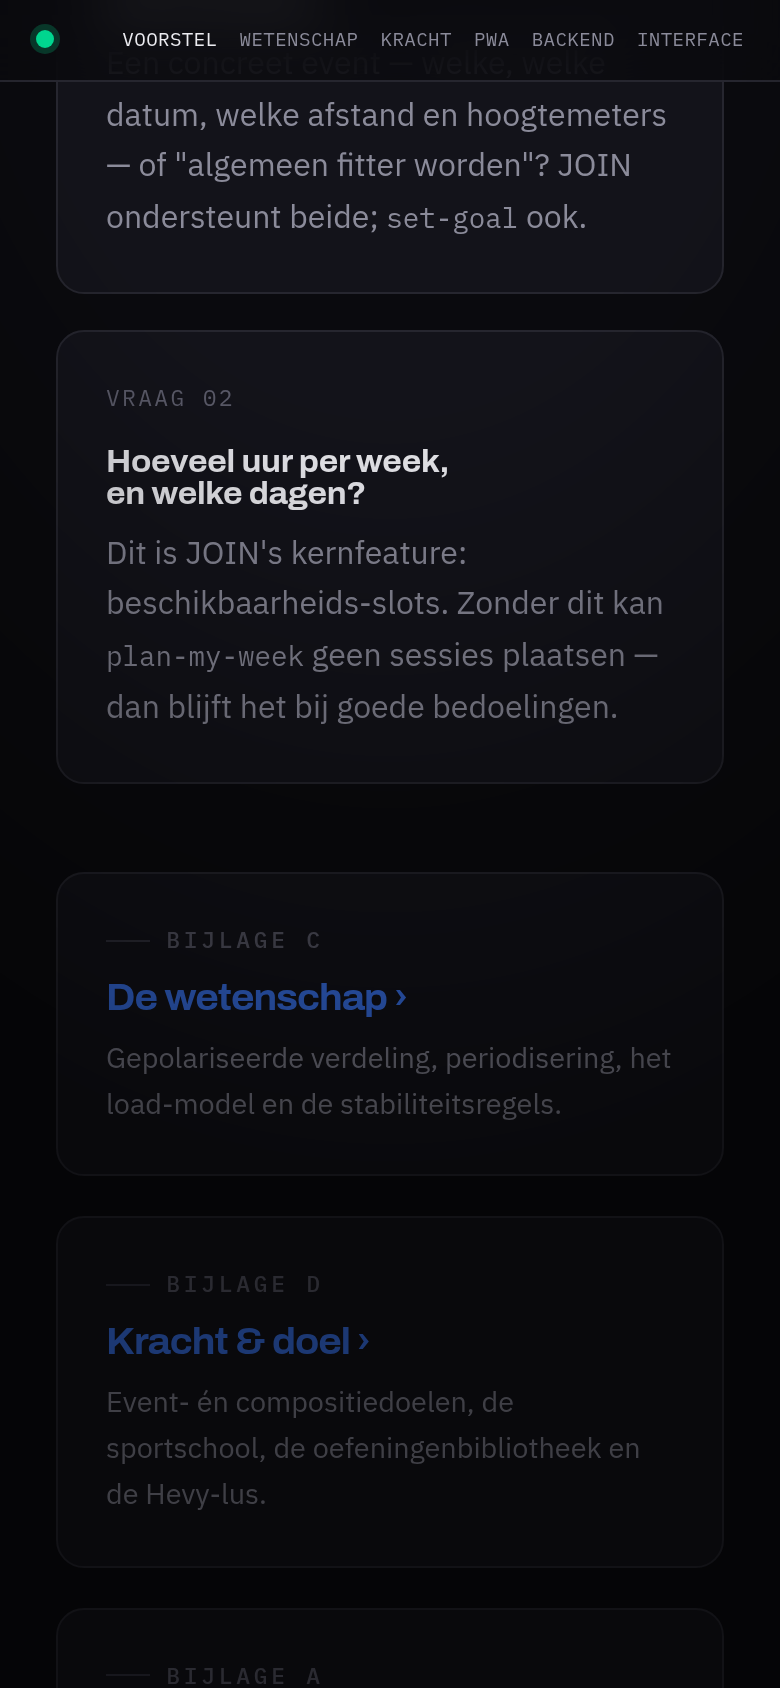
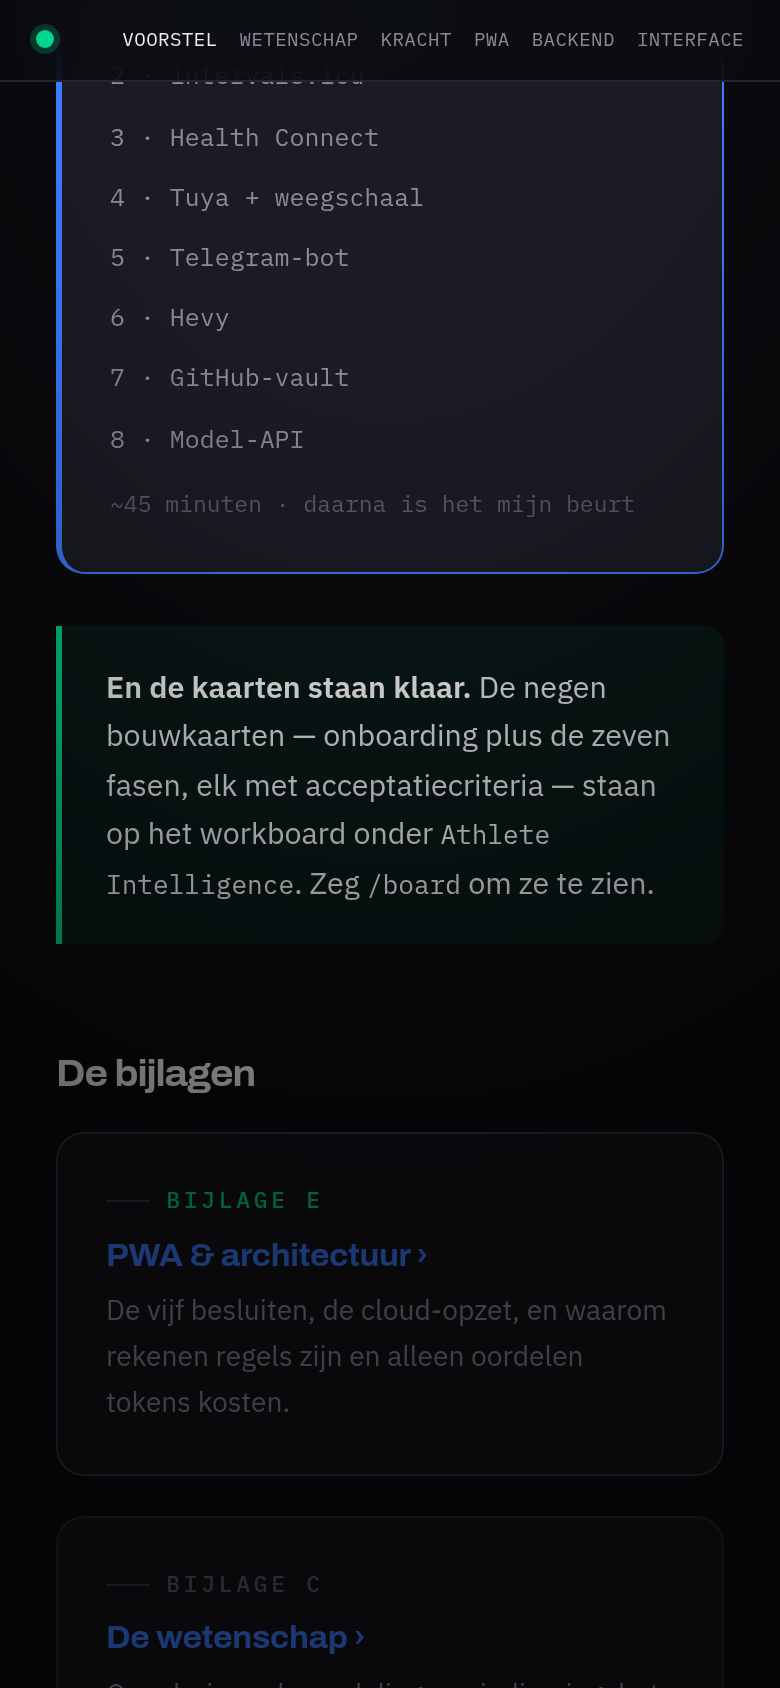
pitch deck: besluiten staan, onboarding-deck als volgende stap
- sectie 12 is nu 'De volgende stap' in plaats van open vragen
- prominente kaart naar de live onboarding-deck op Cloudflare
- de acht stappen met status (1 klaar, 7 te doen)
- vermelding van de negen workboard-kaarten onder Athlete Intelligence
- bijlagen uitgebreid met Bijlage E (PWA & architectuur)
- rail-label bijgewerkt

diff --git a/index.html b/index.html
@@ -715,59 +715,91 @@
   </div>
 </section>
 
-<!-- ============ BESLISPUNTEN ============ -->
+<!-- ============ VOLGENDE STAP ============ -->
 <section class="band" id="beslispunten">
-  <div class="wrap-narrow">
-    <p class="eyebrow accent">12 · Wat ik van je nodig heb</p>
-    <h2>Twee antwoorden,<br>dan kan ik beginnen.</h2>
+  <div class="wrap">
+    <p class="eyebrow accent">12 · De volgende stap</p>
+    <h2>De besluiten staan.<br>Nu de acht stappen.</h2>
+    <p style="max-width:64ch;color:var(--muted);margin-top:20px;font-size:1.04rem">
+      De vijf besluiten zijn genomen — cloud-PWA, D1, Telegram blijft, geen Hevy Pro, en
+      rekenen als regels. Wat overblijft zijn acht dingen die jouw handen nodig hebben:
+      een login, een QR-scan, een account.
+    </p>
 
-    <div class="grid" style="gap:18px;margin-top:40px">
-      <div class="card">
-        <span class="card-num">VRAAG 01</span>
-        <h4>Wat is je doel?</h4>
-        <p style="color:var(--muted);margin-top:8px">
-          Een concreet event — welke, welke datum, welke afstand en hoogtemeters — of
-          "algemeen fitter worden"? JOIN ondersteunt beide; <span class="mono">set-goal</span> ook.
-        </p>
+    <a class="card raised" href="https://athlete-onboarding.aq-bd6.workers.dev"
+       style="display:block;margin-top:36px;border-color:var(--fitness);border-left-width:3px">
+      <div class="grid g2" style="gap:26px;align-items:center">
+        <div>
+          <p class="eyebrow" style="margin-bottom:10px;color:var(--fitness)">Onboarding · live</p>
+          <h3>Acht dingen die jouw handen nodig hebben ›</h3>
+          <p style="color:var(--muted);margin-top:10px;font-size:0.94rem">
+            Per stap: wat je doet, waarom het nodig is, hoe je weet dat het gelukt is, en
+            wat je aan mij doorgeeft. Plus de valkuilen die iedereen overkomt.
+          </p>
+        </div>
+        <div>
+          <div class="grid g2" style="gap:10px">
+            <span class="mono" style="font-size:0.78rem;color:var(--form)">1 · Cloudflare — klaar</span>
+            <span class="mono" style="font-size:0.78rem;color:var(--muted)">2 · intervals.icu</span>
+            <span class="mono" style="font-size:0.78rem;color:var(--muted)">3 · Health Connect</span>
+            <span class="mono" style="font-size:0.78rem;color:var(--muted)">4 · Tuya + weegschaal</span>
+            <span class="mono" style="font-size:0.78rem;color:var(--muted)">5 · Telegram-bot</span>
+            <span class="mono" style="font-size:0.78rem;color:var(--muted)">6 · Hevy</span>
+            <span class="mono" style="font-size:0.78rem;color:var(--muted)">7 · GitHub-vault</span>
+            <span class="mono" style="font-size:0.78rem;color:var(--muted)">8 · Model-API</span>
+          </div>
+          <p class="mono" style="font-size:0.72rem;color:var(--dim);margin-top:14px">
+            ~45 minuten · daarna is het mijn beurt
+          </p>
+        </div>
       </div>
-      <div class="card">
-        <span class="card-num">VRAAG 02</span>
-        <h4>Hoeveel uur per week, en welke dagen?</h4>
-        <p style="color:var(--muted);margin-top:8px">
-          Dit is JOIN's kernfeature: beschikbaarheids-slots. Zonder dit kan
-          <span class="mono">plan-my-week</span> geen sessies plaatsen — dan blijft het bij goede
-          bedoelingen.
-        </p>
-      </div>
+    </a>
+
+    <div class="callout form" style="margin-top:26px">
+      <strong>En de kaarten staan klaar.</strong> De negen bouwkaarten — onboarding plus de
+      zeven fasen, elk met acceptatiecriteria — staan op het workboard onder
+      <span class="mono">Athlete Intelligence</span>. Zeg <span class="mono">/board</span>
+      om ze te zien.
     </div>
 
-    <div class="grid g4" style="margin-top:44px">
+    <h3 style="margin-top:56px;margin-bottom:20px">De bijlagen</h3>
+    <div class="grid g3" style="gap:20px">
+      <a class="card" href="pwa.html" style="display:block;border-color:var(--line-2)">
+        <p class="eyebrow" style="margin-bottom:10px;color:var(--form)">Bijlage E</p>
+        <h4>PWA &amp; architectuur ›</h4>
+        <p style="color:var(--muted);margin-top:8px;font-size:0.88rem">
+          De vijf besluiten, de cloud-opzet, en waarom rekenen regels zijn en alleen
+          oordelen tokens kosten.
+        </p>
+      </a>
       <a class="card" href="science.html" style="display:block">
         <p class="eyebrow" style="margin-bottom:10px">Bijlage C</p>
-        <h3>De wetenschap ›</h3>
-        <p style="color:var(--muted);margin-top:8px;font-size:0.9rem">
+        <h4>De wetenschap ›</h4>
+        <p style="color:var(--muted);margin-top:8px;font-size:0.88rem">
           Gepolariseerde verdeling, periodisering, het load-model en de stabiliteitsregels.
         </p>
       </a>
       <a class="card" href="strength.html" style="display:block">
         <p class="eyebrow" style="margin-bottom:10px">Bijlage D</p>
-        <h3>Kracht &amp; doel ›</h3>
-        <p style="color:var(--muted);margin-top:8px;font-size:0.9rem">
-          Event- én compositiedoelen, de sportschool, de oefeningenbibliotheek en de Hevy-lus.
+        <h4>Kracht &amp; doel ›</h4>
+        <p style="color:var(--muted);margin-top:8px;font-size:0.88rem">
+          Event- én compositiedoelen, de sportschool, de oefeningenbibliotheek en de
+          weegschaal.
         </p>
       </a>
       <a class="card" href="backend.html" style="display:block">
         <p class="eyebrow" style="margin-bottom:10px">Bijlage A</p>
-        <h3>De backend ›</h3>
-        <p style="color:var(--muted);margin-top:8px;font-size:0.9rem">
+        <h4>De backend ›</h4>
+        <p style="color:var(--muted);margin-top:8px;font-size:0.88rem">
           Datastroom, opslag, datamodel, schrijfwegen en de adaptatieregels.
         </p>
       </a>
       <a class="card" href="frontend.html" style="display:block">
         <p class="eyebrow" style="margin-bottom:10px">Bijlage B</p>
-        <h3>De interface ›</h3>
-        <p style="color:var(--muted);margin-top:8px;font-size:0.9rem">
-          Zeven schermen: vandaag, herstel, week, voortgang, coach, kracht en beschikbaarheid.
+        <h4>De interface ›</h4>
+        <p style="color:var(--muted);margin-top:8px;font-size:0.88rem">
+          Zeven schermen: vandaag, herstel, week, voortgang, coach, kracht en
+          beschikbaarheid.
         </p>
       </a>
     </div>
@@ -793,7 +825,7 @@
   <a href="#opbrengst" aria-label="Opbrengst"></a>
   <a href="#grenzen" aria-label="Grenzen"></a>
   <a href="#kosten" aria-label="Kosten"></a>
-  <a href="#beslispunten" aria-label="Beslispunten"></a>
+  <a href="#beslispunten" aria-label="Volgende stap"></a>
 </nav>
 
 <script src="assets/app.js"></script>
